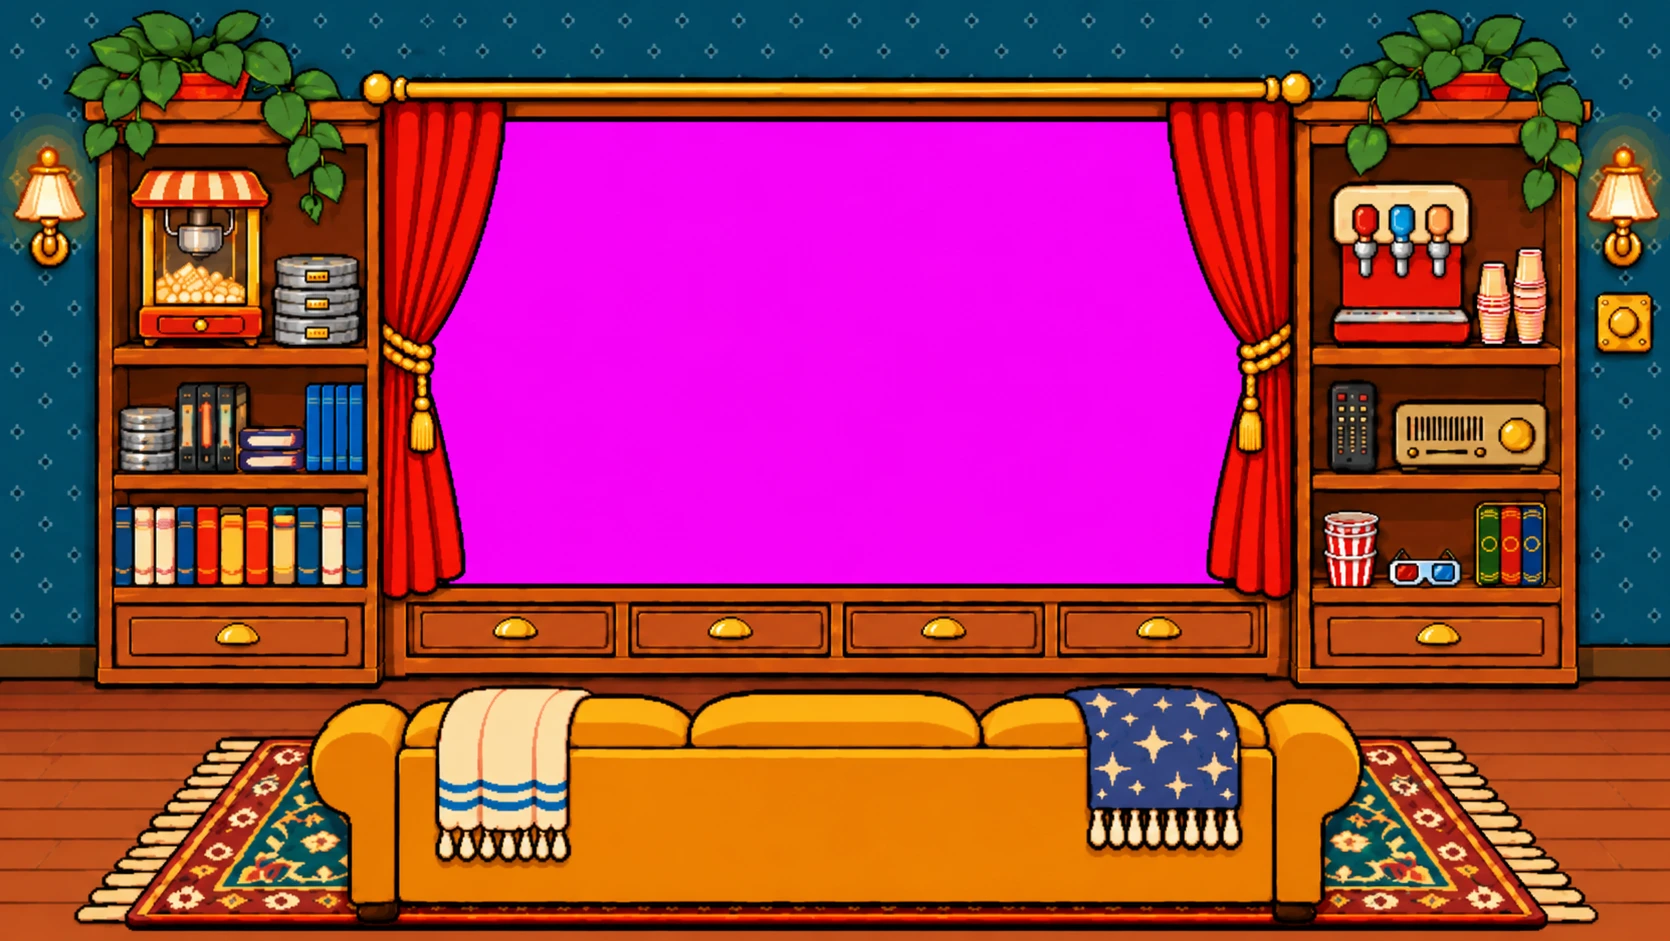
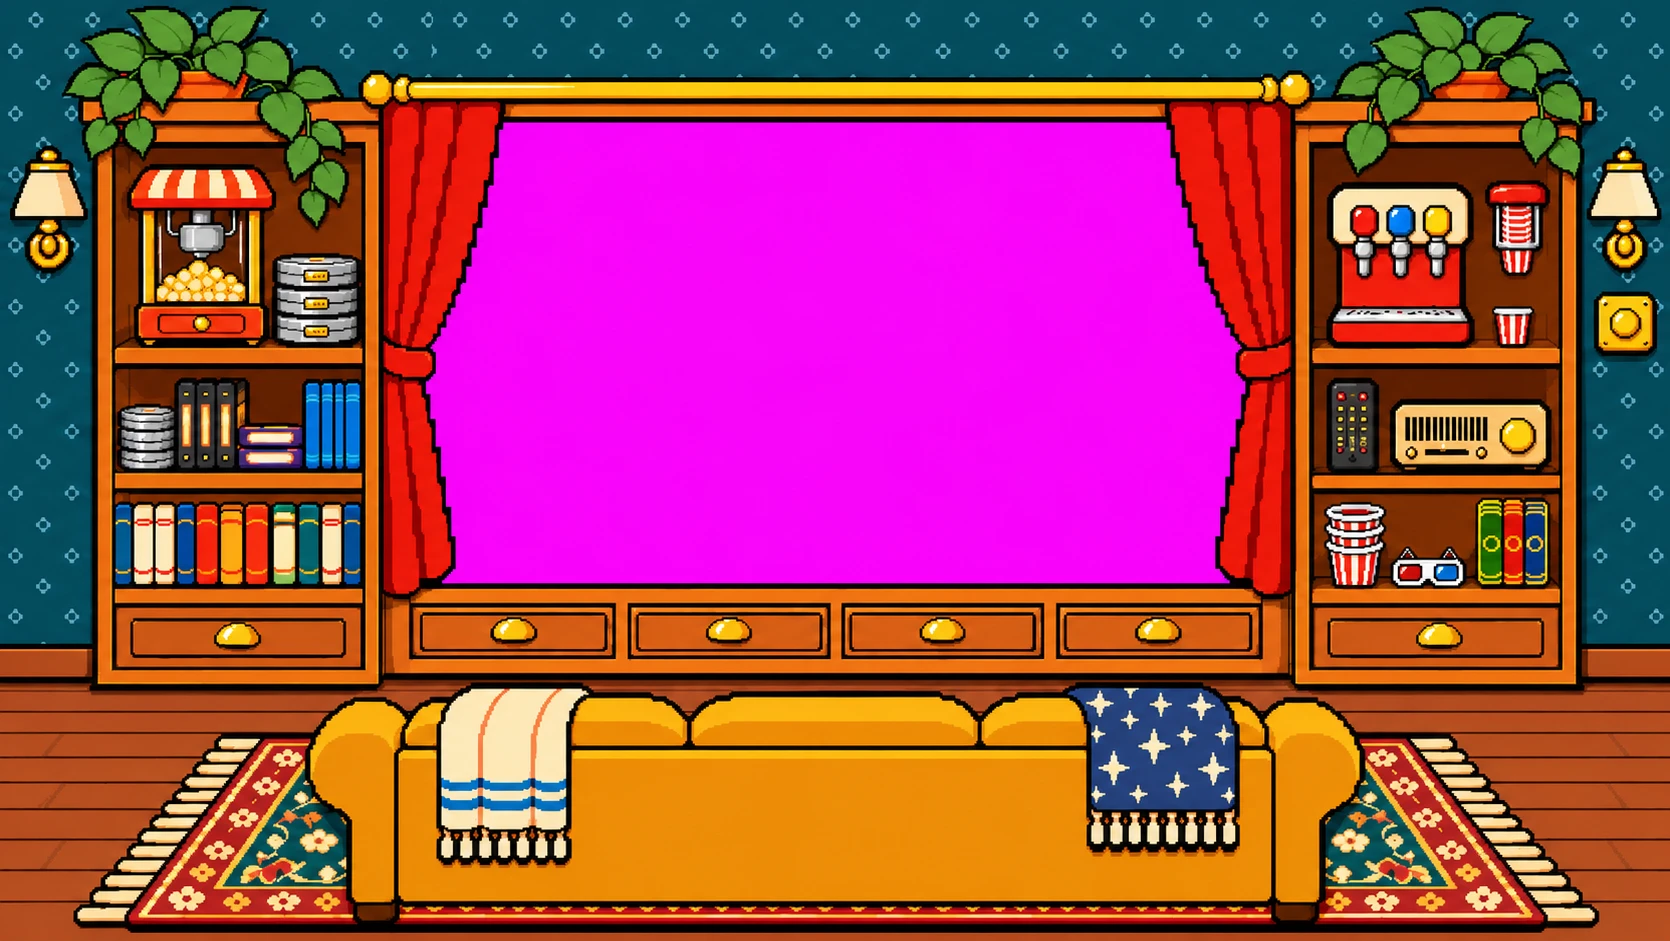
The movie room has its refined picture, with wall lamps that go off when the lights are turned down

diff --git a/js/movieroom.js b/js/movieroom.js
@@ -5,7 +5,7 @@
    start watching"), draw open like the study room's, and close again when it ends. Everything you touch here is about watching.
    The film streams from the Internet Archive, so it needs a connection; it plays muted (the copy's music is not known to be free).
    You get here from the Leave button (below). */
-const MV={W:1670,H:941,screen:{x:428,y:117,w:816,h:468},curtain:{x:366,y:98,w:940,h:504},step:260};
+const MV={W:1670,H:941,screen:{x:424,y:118,w:824,h:468},curtain:{x:366,y:98,w:940,h:504},step:260};
 /* THE COLLECTION (Jackie, Nov 26: "a movie collection with reels, vhs, and bluray"). Shelves of films, each opened by tapping its things on the left-hand shelving; a shelf can hold more than one
    collection, shown as buttons at the top of its list. Every film is public domain in the United States (published before 1931) and its Internet
    Archive copy was confirmed to exist (research_notes/movieroom/channels.md). They are silent films and play muted. None has been
@@ -112,7 +112,7 @@ function mvCatEnter(){if(!st.started){mvCat=null;return;}const sp=MV_CAT_SPOTS[M
 const MV_KNOB={x:1592,y:290,w:64,h:68},MV_LIGHTS=[1,.62,.34,.14],MV_LIGHT_SAY=['Lights up.','Lights low.','Lights lower.','Lights nearly out.'];let mvSound=true,mvLight=0;
 function mvSoundSet(on){mvSound=!!on;if(!mvEl)return;mvEl.querySelector('video').muted=!mvSound;}
 function mvLightApply(){if(!mvEl)return;const v=mvEl.querySelector('video'),playing=mvState==='open'&&mvEl.dataset.paused!=='1'&&v&&v.getAttribute('src');
- const lv=playing?Math.max(mvLight,1):mvLight;mvEl.style.setProperty('--mvb',MV_LIGHTS[lv]);mvEl.dataset.light=lv;mvEl.querySelector('.mvknobon').hidden=mvLight!==0;}
+ const lv=playing?Math.max(mvLight,1):mvLight;mvEl.style.setProperty('--mvb',MV_LIGHTS[lv]);mvEl.dataset.light=lv;mvEl.querySelector('.mvknobon').hidden=mvLight!==0;mvEl.querySelectorAll('.mvsconce').forEach(e=>{e.hidden=lv!==0;});} // the wall lamps are lit only while the lights are right up; in the base picture they are off
 function mvLightStep(){mvLight=(mvLight+1)%MV_LIGHTS.length;sfx('tick');mvLightApply();mvNote(MV_LIGHT_SAY[mvLight]);}
 /* THE THINGS ON THE SHELVES (Jackie, Nov 27: "I want to work on all the stuff in the shelves they should work"). Each does one thing:
    the popcorn machine and the stack of buckets offer five kinds of popcorn; the machine pops for a moment, a bucket lands on the couch,
@@ -122,7 +122,7 @@ function mvLightStep(){mvLight=(mvLight+1)%MV_LIGHTS.length;sfx('tick');mvLightA
    the row of books opens the books about film, and the box set opens its three books, each read a page at a time. */
 const MV_CORN=[['butter','Butter popcorn'],['caramel','Caramel popcorn'],['cheese','Cheese popcorn'],['seaweed','Seaweed popcorn'],['charcoal','Charcoal popcorn']],
  MV_SODA=[['red','Cherry soda'],['blue','Blueberry soda'],['yellow','Lemon soda']],MV_TINTS=['','amber','blue','rose'],MV_TINT_NAME={'':'No tint.',amber:'Amber tint.',blue:'Blue tint.',rose:'Rose tint.'},
- MV_SPOTS={machine:{x:126,y:162,w:148,h:186},buckets:{x:1316,y:504,w:66,h:88},fountain:{x:1326,y:178,w:150,h:170},cups:{x:1476,y:240,w:78,h:108},glasses:{x:1384,y:540,w:80,h:52},boxset:{x:1470,y:496,w:82,h:96},books:{x:110,y:500,w:260,h:92}},
+ MV_SPOTS={machine:{x:126,y:162,w:148,h:186},buckets:{x:1316,y:504,w:66,h:88},fountain:{x:1326,y:178,w:150,h:170},cups:{x:1480,y:176,w:78,h:172},glasses:{x:1384,y:540,w:80,h:52},boxset:{x:1470,y:496,w:82,h:96},books:{x:110,y:500,w:260,h:92}},
  MV_ON={corn:{x:560,y:697,k:.42},cup:{x:1262,y:697,k:.4},pop:{x:124,y:160,w:152,h:192},pour:{x:1322,y:174,w:158,h:176}};
 let mvTrayEl=null,mvPopT=0,mvBooks=null,mvTint=0;
 function mvTrayClose(){if(mvTrayEl){mvTrayEl.remove();mvTrayEl=null;}}
@@ -178,6 +178,7 @@ function openMovieRoom(){
   '<canvas class="mvseats" width="'+MV.W+'" height="'+MV.H+'" hidden></canvas>'+
   '<button type="button" class="mvtap" aria-label="Open or close the curtains" style="'+mvPct(MV.curtain)+'"></button>'+
   MV_SHELVES.map((sh,i)=>(sh.at||[]).map(r=>'<button type="button" class="mvhot" data-shelf="'+i+'" aria-label="'+sh.name+'" style="'+mvPct(r)+'"></button>').join('')).join('')+
+  '<img class="mvover mvsconce" src="movieroom/sconce_l_lit.png" alt="" draggable="false" style="'+mvPct({x:2,y:118,w:96,h:160})+'"><img class="mvover mvsconce" src="movieroom/sconce_r_lit.png" alt="" draggable="false" style="'+mvPct({x:1572,y:118,w:96,h:160})+'">'+
   '<img class="mvknobon" src="movieroom/acc_dimmer_high.png" alt="" draggable="false" hidden style="'+mvPct({x:MV_KNOB.x+4,y:MV_KNOB.y+4,w:56,h:63})+'">'+
   '<button type="button" class="mvhot mvknob" aria-label="Room lights" style="'+mvPct(MV_KNOB)+'"></button>'+
   '<button type="button" class="mvhot mvamp" aria-label="Sound on or off" style="'+mvPct(MV_AMP)+'"></button>'+

diff --git a/tests/movieroom_test.py b/tests/movieroom_test.py
@@ -41,7 +41,7 @@ async def main():
         await pg.screenshot(path=os.path.join(OUT, "curtains_closed.png"))
         # the screen sits where the picture's screen is
         g = await pg.evaluate("()=>{const s=document.querySelector('.mvstage').getBoundingClientRect(),v=document.querySelector('.mvstage video').getBoundingClientRect();return [(v.left-s.left)/s.width*1670,(v.top-s.top)/s.height*941,v.width/s.width*1670,v.height/s.height*941];}")
-        check("the film sits behind the picture's screen", abs(g[0]-428) < 2 and abs(g[1]-117) < 2 and abs(g[2]-816) < 2 and abs(g[3]-468) < 2, g)
+        check("the film sits behind the picture's screen", abs(g[0]-424) < 2 and abs(g[1]-118) < 2 and abs(g[2]-824) < 2 and abs(g[3]-468) < 2, g)
         r = await pg.evaluate("()=>{const v=document.querySelector('.mvstage video');window.__plays=0;v.play=()=>{window.__plays++;Object.defineProperty(v,'paused',{value:false,configurable:true});return Promise.resolve();};v.pause=()=>{Object.defineProperty(v,'paused',{value:true,configurable:true});};"
                               "document.querySelector('.mvremote').click();const a=mvState;__step(.1);const b=mvState;__step(.4);return {a,b,c:mvState,plays:window.__plays,src:v.getAttribute('src'),hidden:document.querySelector('.mvcurtain').hidden,muted:v.muted,note:document.querySelector('.mvnote').textContent};}")
         check("the remote opens the curtains in two steps and starts the film", r["a"] == "half" and r["b"] == "half" and r["c"] == "open" and r["plays"] == 1 and r["hidden"], r)
@@ -58,6 +58,8 @@ async def main():
         r = await pg.evaluate("()=>{const m=document.querySelector('.movieroom'),k=document.querySelector('.mvknob'),b=()=>+m.style.getPropertyValue('--mvb'),L=[b()];for(let i=0;i<4;i++){k.click();L.push(b());}const note=document.querySelector('.mvnote').textContent;"
                               "k.click();k.click();k.click();const low=b();document.querySelector('.mvremote').click();__step(.6);const playing=b();mvLight=0;mvLightApply();const playUp=b();document.querySelector('.mvremote').click();const paused=b();mvScreen();__step(.5);return {L,note,low,playing,playUp,paused};}")
         check("the gold knob steps the room's light down and round again", r["L"] == [1, .62, .34, .14, 1] and r["note"] == "Lights up." and r["low"] == .14, r)
+        r3 = await pg.evaluate("()=>{const sc=()=>[...document.querySelectorAll('.mvsconce')].map(e=>e.hidden);mvLight=0;mvLightApply();const up=sc();mvLight=2;mvLightApply();const low=sc();mvLight=0;mvLightApply();return {up,low};}")
+        check("the wall lamps are lit while the lights are up and off when they are turned down", r3["up"] == [False, False] and r3["low"] == [True, True], r3)
         check("while a film plays the room is never brighter than low, and the knob can take it lower", r["playing"] == .14 and r["playUp"] == .62 and r["paused"] == 1, r)
         # the shelves: popcorn, soda, the glasses, the box set
         r = await pg.evaluate("()=>{const hot=k=>[...document.querySelectorAll('.mvthing')].find(b=>b.dataset.k===k);st.full=0;st.needs.thirst=.8;hot('machine').click();const tiles=document.querySelectorAll('.mvtile').length;document.querySelector('.mvtile[data-id=caramel]').click();"

diff --git a/tools/movieroom_build.py b/tools/movieroom_build.py
@@ -1,6 +1,7 @@
 #!/usr/bin/env python3
 """The movie room's pictures (Jackie, Nov 26), from her three ChatGPT pictures in art_src/movieroom/:
-  open.png            the room with the curtains open and the screen flat magenta
+  open.png            the room with the curtains open, the wall lamps off and the screen flat magenta (the refined picture of Nov 27)
+  sconce_l_lit.png, sconce_r_lit.png  the two wall lamps lit, cut from the earlier picture (at 2,118 and 1572,118)
   curtain_closed.png  the stretch between the two shelf units (at 366,98) with the curtains closed
   curtain_half.png    the same stretch with the curtains halfway, magenta showing between them
 Writes movieroom/room.png, movieroom/curtain_closed.png and movieroom/curtain_half.png with the magenta made see-through, so the
@@ -22,4 +23,5 @@ def main():
     os.makedirs(OUT,exist_ok=True)
     hole('open.png').save(os.path.join(OUT,'room.png'),optimize=True);hole('curtain_half.png').save(os.path.join(OUT,'curtain_half.png'),optimize=True)
     Image.open(os.path.join(SRC,'curtain_closed.png')).convert('RGBA').save(os.path.join(OUT,'curtain_closed.png'),optimize=True)
+    for n in ('l','r'):Image.open(os.path.join(SRC,'sconce_%s_lit.png'%n)).convert('RGBA').save(os.path.join(OUT,'sconce_%s_lit.png'%n),optimize=True) # the wall lamps lit, laid over the base (where they are off) while the room's lights are up
 if __name__=='__main__':main()

diff --git a/DECISIONS.md b/DECISIONS.md
@@ -2,6 +2,13 @@
 
 Everything Jackie has decided about Monster Plant, with the reason. Add new entries at the top. The rules that never change are in [RULES.md](RULES.md).
 
+### The movie room has its refined picture (Nov 27)
+
+- Jackie: "the movie room image can be refined. For instance, the cup stack looks weird, the popcorn bucket stack is weird, and the popcorn maker thing is not very 32 bit (actually a lot of it is really smooth); and the sconces are pre-lit." After three rounds with ChatGPT she approved the new picture ("Nice"; of its buckets, "the popcorn buckets are perfect").
+- The new base has crisper pixels throughout, a redrawn popcorn machine, a pull-down cup dispenser with one cup under it in place of the cup stack, plain red ties on the curtains in place of the gold tassels, and wall lamps that are off.
+- It lined up exactly with the old picture, so the closed curtains from the old set are still used. The wall lamps lit are cut from the old picture and laid over the new one while the room's lights are right up; turned down, the lamps are off as drawn.
+- The film's place on the screen and the tap spot for the cups were re-measured.
+
 ### The string lights are always lit, and a tap turns them off (Nov 27)
 
 - Jackie: "I want the string lights to always be lit up and twinkles here and there or you can turn them off i guess if you click them".
